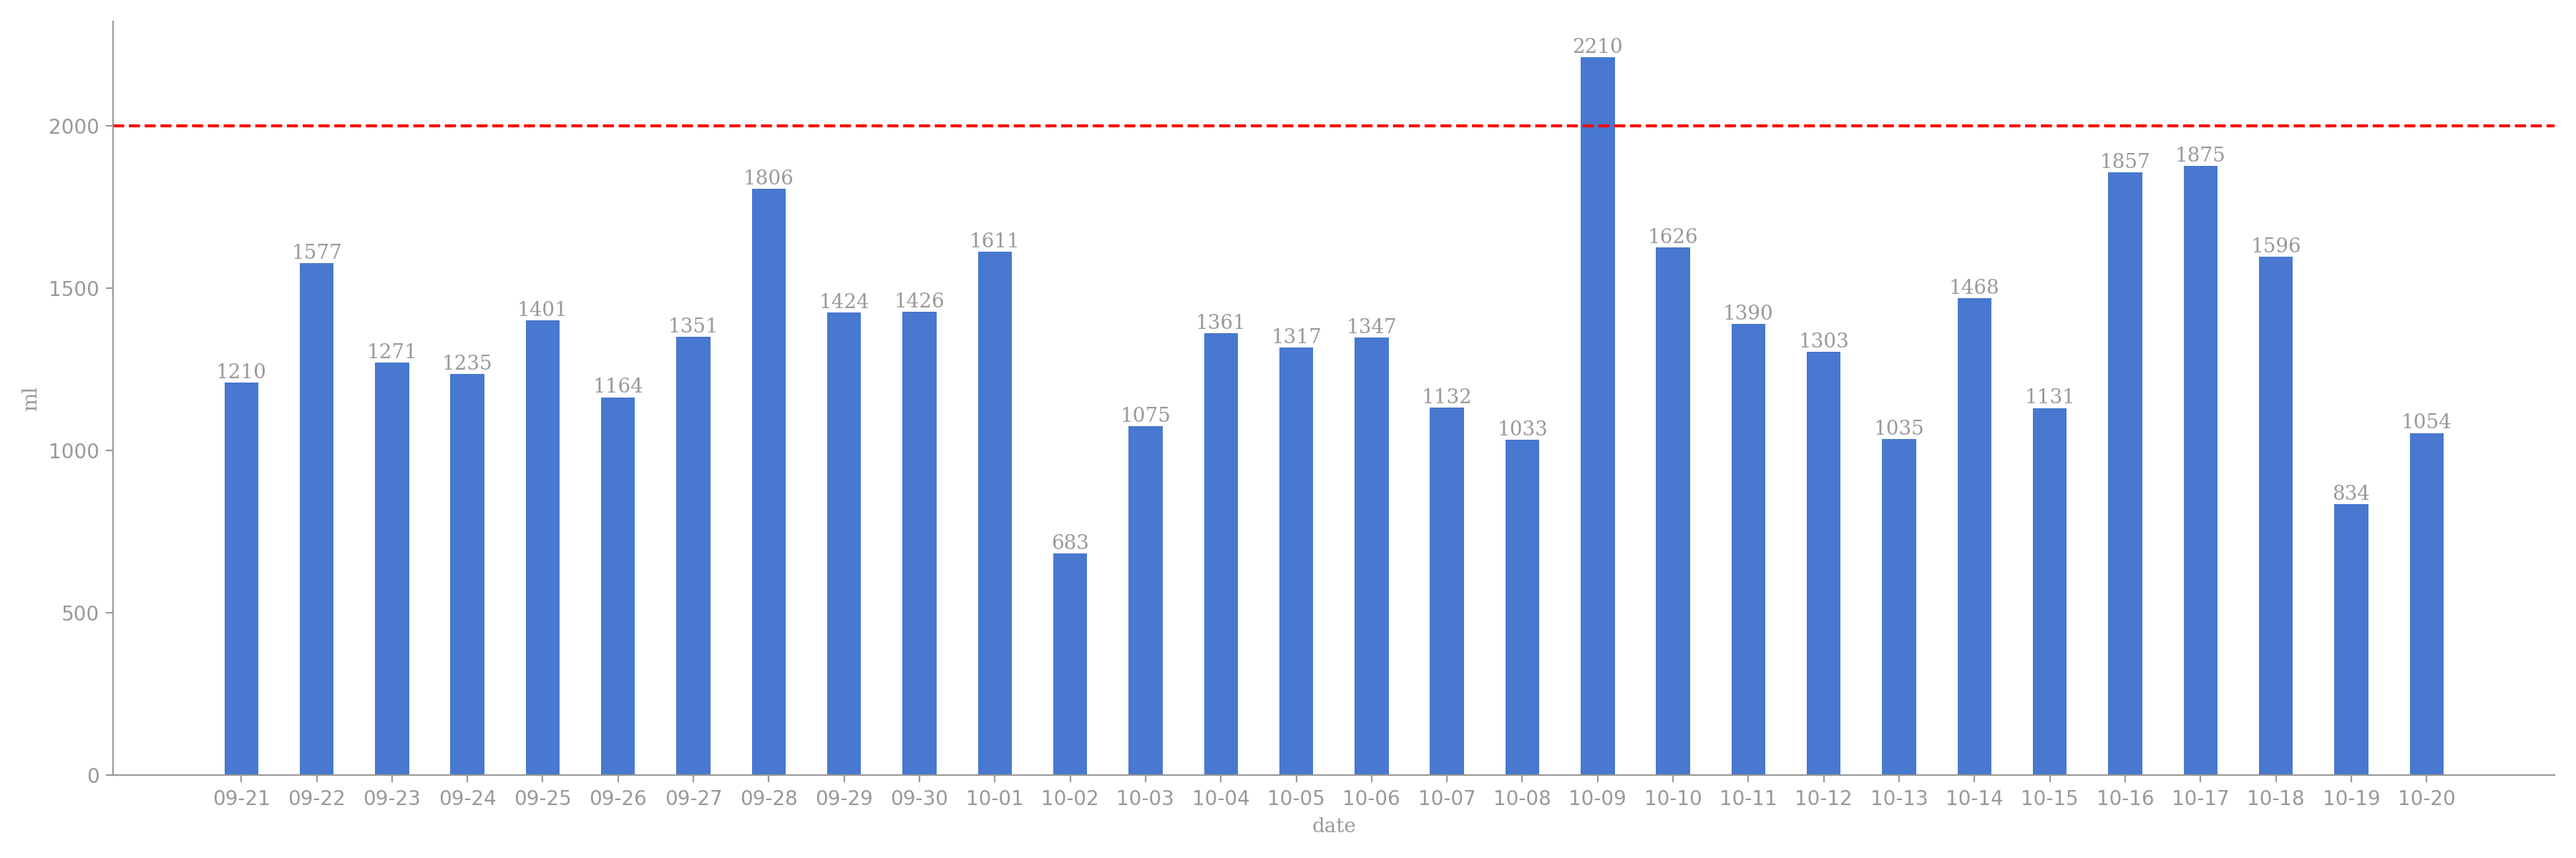
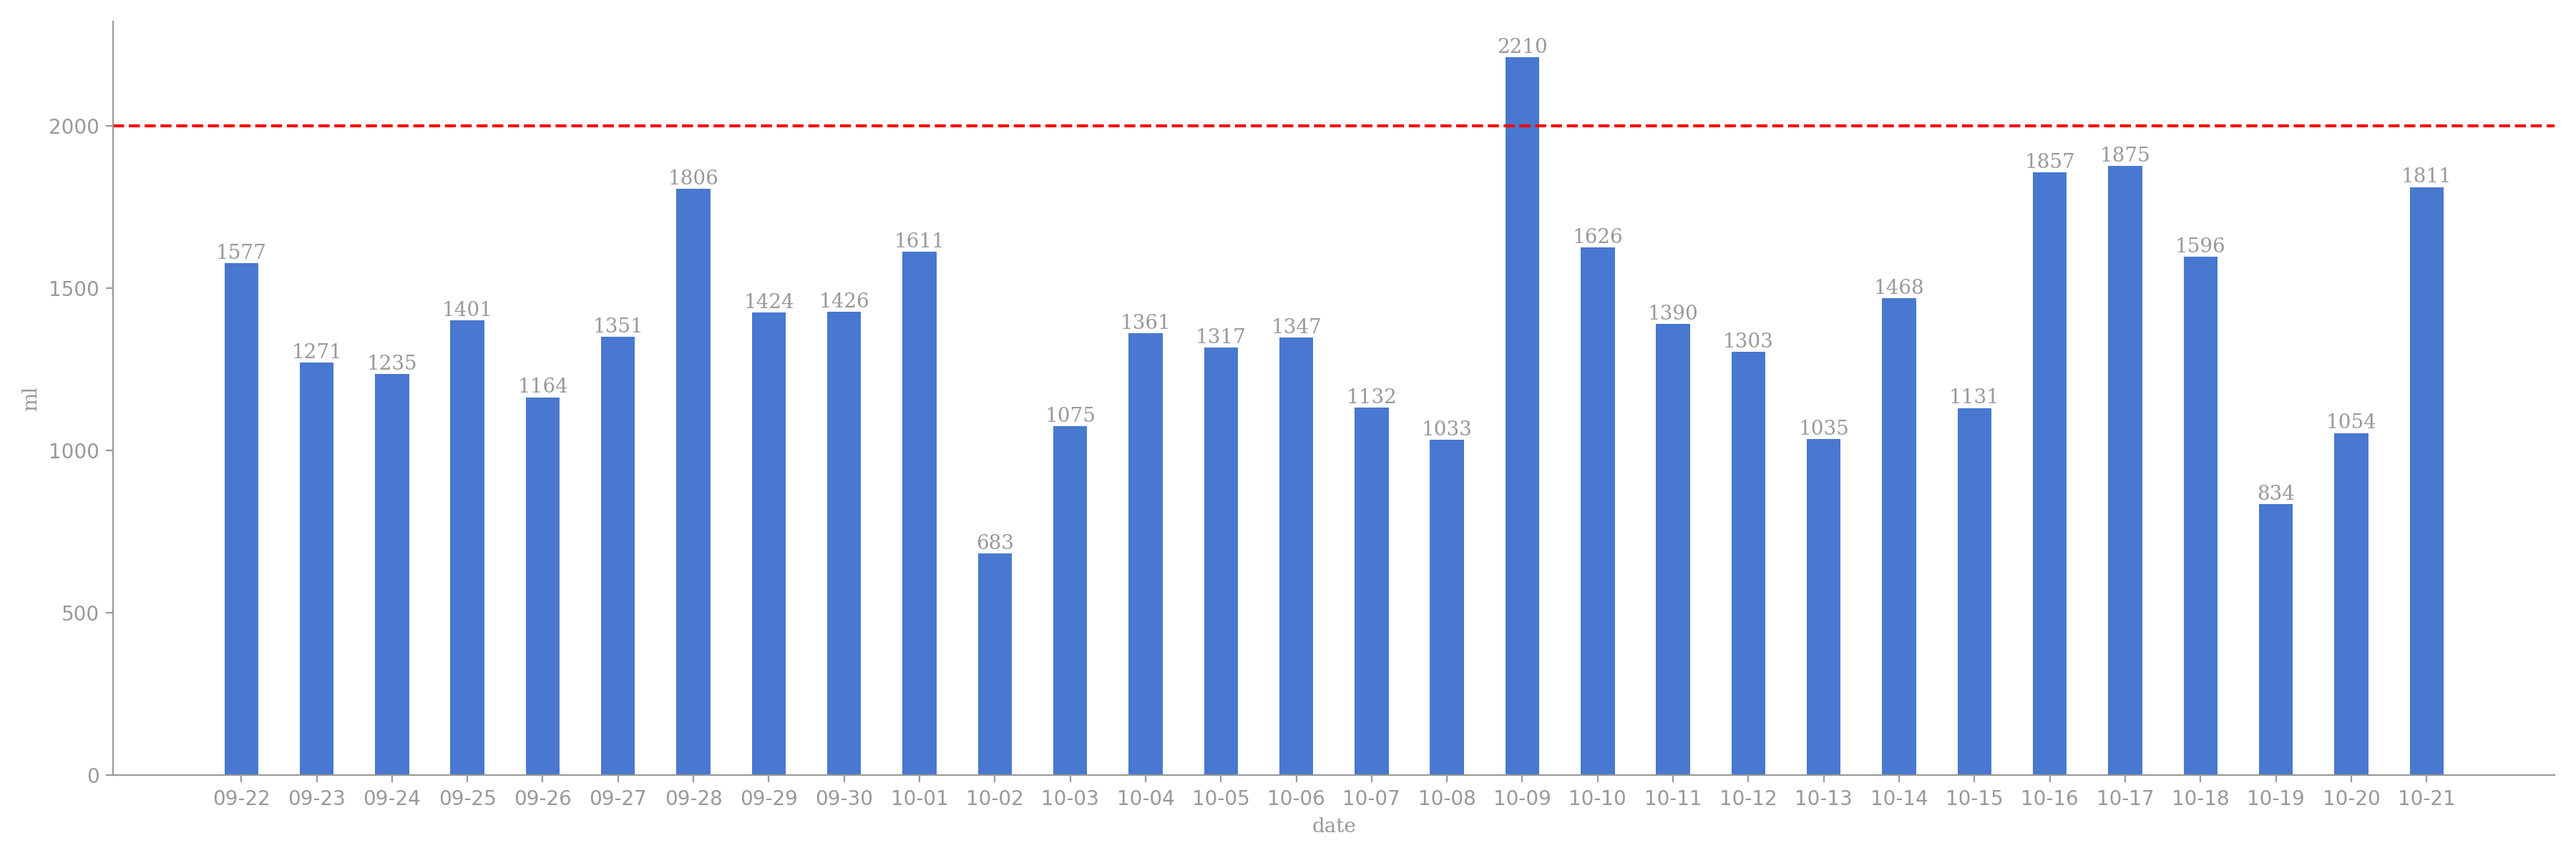
generated readme

Changed region(s): [[0.0622, 0.0308, 0.9644, 0.6475], [0.3422, 0.925, 0.3733, 0.9558]]

diff --git a/README.md b/README.md
@@ -5,12 +5,12 @@
 
 | 今日总饮水量 | 每小时平均饮水量 |
 | :----: | :----: |
-| 1811 | 164 |
+| 81 | 81 |
 </div>
 
-| 日期 | 00:39:01 | 05:22:13 | 07:59:55 | 09:21:51 | 10:23:52 | 10:59:26 | 13:02:51 | 13:50:56 | 14:38:07 | 15:03:01 | 16:09:18 | 16:51:21 | 19:01:23 | 22:20:25 |
-| :----: | :----: | :----: | :----: | :----: | :----: | :----: | :----: | :----: | :----: | :----: | :----: | :----: | :----: | :----: |
-| 2024-10-21 | 81 | 119 | 113 | 250 | 101 | 202 | 71 | 82 | 54 | 89 | 83 | 93 | 73 | 400 |
+| 日期 | 00:04:19 |
+| :----: | :----: |
+| 2024-10-22 | 81 |
 
 # 近30日饮水数据
 
@@ -19,8 +19,12 @@
 
 | 总饮水量 | 日均饮水量 |
 | :----: | :----: |
-| 40803 | 1360 |
+| 41404 | 1380 |
 </div>
+
+| 日期 | all | 00:39:01 | 05:22:13 | 07:59:55 | 09:21:51 | 10:23:52 | 10:59:26 | 13:02:51 | 13:50:56 | 14:38:07 | 15:03:01 | 16:09:18 | 16:51:21 | 19:01:23 | 22:20:25 |
+| :----: | :----: | :----: | :----: | :----: | :----: | :----: | :----: | :----: | :----: | :----: | :----: | :----: | :----: | :----: | :----: |
+| 2024-10-21 | 1811 | 81 | 119 | 113 | 250 | 101 | 202 | 71 | 82 | 54 | 89 | 83 | 93 | 73 | 400 |
 
 | 日期 | all | 00:31:54 | 01:32:40 | 01:56:11 | 07:00:23 | 08:11:32 | 13:32:41 | 16:40:17 | 17:36:17 | 18:48:38 | 21:24:36 | 21:43:52 | 22:07:00 | 22:42:55 |
 | :----: | :----: | :----: | :----: | :----: | :----: | :----: | :----: | :----: | :----: | :----: | :----: | :----: | :----: | :----: |
@@ -141,8 +145,4 @@
 | 日期 | all | 00:33:44 | 01:47:01 | 02:17:32 | 05:46:03 | 07:11:02 | 07:54:22 | 08:28:28 | 13:33:05 | 16:22:16 | 18:47:09 | 22:06:59 | 22:56:10 |
 | :----: | :----: | :----: | :----: | :----: | :----: | :----: | :----: | :----: | :----: | :----: | :----: | :----: | :----: |
 | 2024-09-21 | 1210 | 73 | 68 | 307 | 200 | 87 | 62 | 78 | 63 | 80 | 62 | 87 | 43 |
-
-| 日期 | all | 01:22:11 | 04:04:58 | 04:51:31 | 05:51:11 | 07:07:02 | 07:53:36 | 09:28:23 | 14:40:19 | 18:59:46 | 20:43:35 | 23:42:02 |
-| :----: | :----: | :----: | :----: | :----: | :----: | :----: | :----: | :----: | :----: | :----: | :----: | :----: |
-| 2024-09-20 | 1506 | 400 | 67 | 63 | 200 | 81 | 57 | 49 | 62 | 61 | 66 | 400 |
 
